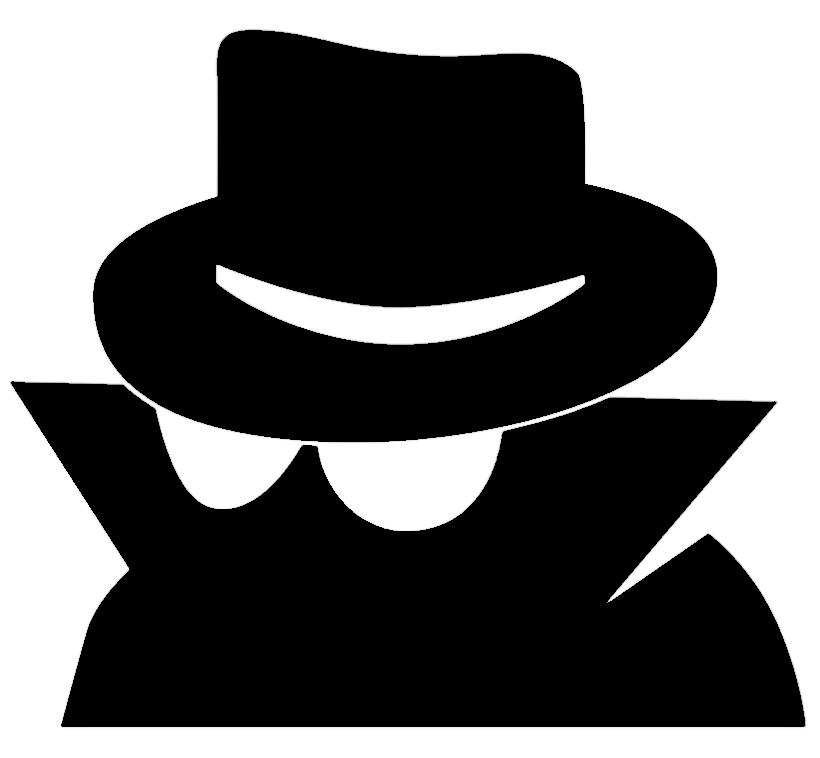
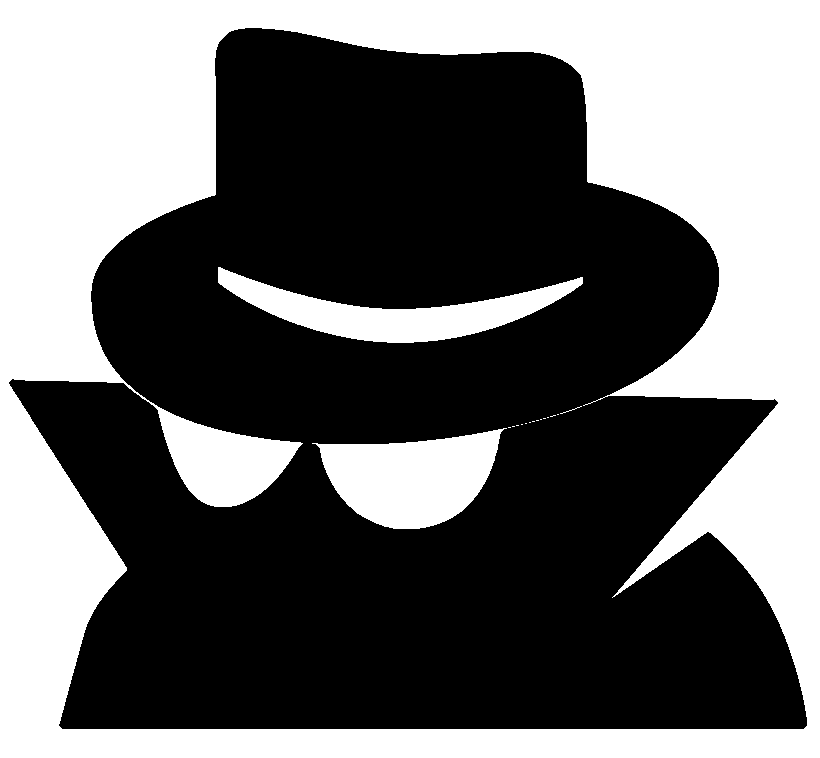
update private image

diff --git a/cart/popup/popup.js b/cart/popup/popup.js
@@ -5,16 +5,17 @@ let btn_clear = document.getElementById("btn_clear");
 let chb_incognito = document.getElementById("chb_incognito");
 let pageCount = document.getElementById("pageCount");
 let allTabsInfo = document.getElementById("allTabsInfo");
+let privateImg = document.getElementById("privateImg");
 let tabsInfo_list = [];
 
 chb_incognito.addEventListener('change', async (event) => {
     chrome.storage.local.set({ incognito: event.currentTarget.checked });
 
     if (event.currentTarget.checked) {
-        allTabsInfo.style.backgroundSize = '100px';
+        privateImg.style.display = 'block';
     }
     else {
-        allTabsInfo.style.backgroundSize = '0';
+        privateImg.style.display = 'none';
     }
 });
 
@@ -37,10 +38,10 @@ btn_clear.addEventListener("click", async () => {
 chrome.storage.local.get(['tabsInfo', 'incognito'], ({ tabsInfo, incognito }) => {
     chb_incognito.checked = incognito;
     if (chb_incognito.checked) {
-        allTabsInfo.style.backgroundSize = '100px';
+        privateImg.style.display = 'block';
     }
     else {
-        allTabsInfo.style.backgroundSize = '0';
+        privateImg.style.display = 'none';
     }
     if (tabsInfo != undefined) {
         let ul = document.createElement('ul');

diff --git a/cart/popup/popup.css b/cart/popup/popup.css
@@ -18,10 +18,7 @@ button.current {
 
 #allTabsInfo {
     margin-left: 10px;
-    background-repeat: no-repeat;
-    background-image: url('/images/private1.png');
-    background-position: right bottom; 
-    background-size: 100px;
+    min-height: 40px;
 }
 
 #footer {
@@ -31,6 +28,19 @@ button.current {
     margin: 0 auto;
     width: 100%;
     z-index: 3;
+    text-align: center;
+    vertical-align: middle;
+    background-color: #333;
+}
+
+#privateImg {
+    position: fixed;
+    padding: 0;
+    bottom: 50px;
+    right: 10px;
+    margin: 0;
+    width: 80px;
+    z-index: -1;
     text-align: center;
     vertical-align: middle;
     background-color: #333;

diff --git a/cart/popup/popup.html b/cart/popup/popup.html
@@ -14,6 +14,8 @@
     <div id="allTabsInfo"></div>
   </div>
 
+  <img id="privateImg" src="/images/private1.png"/>
+
   <div id="footer">
     <hr style="border: 0.5px solid #AAA; margin: 0; padding: 0;">
 
